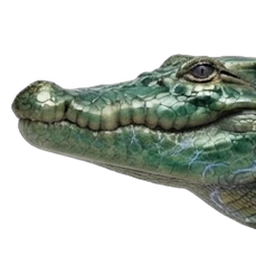
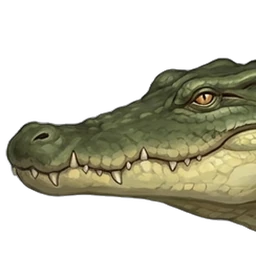
Jade-Scaled Crocodile: redesigned picture, roar picture, animated from its own videos with its own voice
Heavy olive-green crocodile with rows of raised polished jade armour plates and a stub tail, drawn
facing left (no longer mirrored; Nano Banana 2.1; sparkle removed, shrunk to leave room). Both
videos clean. Its bite takes its head-lowering as a wind-up (every 4th frame) and a few spaced
frames of its head rising again afterwards, so it settles into the idle with no double head
(still 3 s). Its face crop widened to take in its eye.

Claude-Session: https://claude.ai/code/session_018PQaDMV3orGvkBFWtr1kVD

diff --git a/scripts/make_beast_sheets.py b/scripts/make_beast_sheets.py
@@ -166,6 +166,17 @@ CLIPS = {
                          "tail_x_until": {"death": 5.85},
                          "ease_in": {"attack": 2, "hit": 3, "death": 4}, "settle": {"attack": 3},
                          "ease_out": {"hit": 3}, "place_as": {"attack": "idle", "hit": "idle", "death": "idle"}},
+    # Nov 27 redesign, an olive-green crocodile with rows of raised jade armour plates and a stub tail: both videos
+    # clean (no remakes; made from the uncleaned picture, its sparkle off the body on the backdrop). It drifts slowly
+    # through its video and starts lowering its head a second before it bites, so its idle is the calm second before
+    # that and the bite takes the head-lowering as its wind-up (every 4th frame). After the bite its head rested lower
+    # than the idle's (a double head where it dissolved back), and only rose again over the next 3 s: a few frames of that
+    # rise are taken (every 6th to 12th), so the bite ends in the idle's pose; its flinch and its belly-flop from the hit video
+    "jade_scaled_crocodile": {"attack": ((3.083, 3.133), (3.250, 3.300), (3.417, 3.467), (3.583, 3.633), (3.750, 3.800), (3.85, 6.5), (7.000, 7.050), (7.500, 7.550), (8.000, 8.050), (8.500, 8.550), (8.917, 8.967), (9.250, 9.300), (9.583, 9.633), (9.833, 9.883)),
+                              "hit": (2.1, 3.5), "death": (5.5, 6.7), "idle_span": (16, 26),
+                              "breathe": 0.03, "idle_from": 2.0, "idle_until": 3.1, "attack_ms": 3000,
+                              "ease_in": {"attack": 2, "hit": 3, "death": 4}, "settle": {"attack": 4},
+                              "ease_out": {"hit": 3}, "place_as": {"attack": "idle", "hit": "idle", "death": "idle"}},
     "old_black_bear": {"attack": (2.3, 5.1), "hit": (2.05, 3.45), "death": (3.9, 6.4), "idle_span": (30, 46),
                        "idle_from": 5.8, "attack_ms": 2600, "bite": 27, "impact": 10, "white": ("death",)},
                        # its attack from the remade video with headroom (Nov 26): the first one's head left the video

diff --git a/tests/test_web_explore.py b/tests/test_web_explore.py
@@ -1361,6 +1361,20 @@ def test_the_lightning_weasel_is_animated_from_its_own_videos_with_its_own_voice
     assert json.load(open(os.path.join("art", "beasts", "heads.json")))["lightning_weasel@roar"][:2] == [0.09, 0.23]
     assert explore_play.beast_body("Lightning Weasel") == "lightning_weasel"
 
+def test_the_jade_scaled_crocodile_is_animated_from_its_own_videos_with_its_own_voice():
+    """SHOAIB's redesigned Jade-Scaled Crocodile (Nov 27, Grandmaster Elite): an olive-green crocodile with raised jade armour plates and a stub tail; both videos clean, its bite ends in the idle's pose."""
+    import json
+    from web import beast_sheets, death, explore_play
+    d = beast_sheets.sheets("jade_scaled_crocodile")
+    assert d and set(d["sheets"]) == {"idle", "attack", "hit", "death"} and d["sheets"]["idle"]["smooth"]
+    assert death.view({"kind": "beast", "name": "Jade-Scaled Crocodile", "slug": "jade_scaled_crocodile"})["kind"] == "sheet"
+    assert os.path.exists(os.path.join("art", "beasts", "roar", "jade_scaled_crocodile.png"))
+    keys = json.load(open(os.path.join("art", "fx", "sounds", "sounds.json")))
+    for sound in ("hit", "lunge", "death", "roar", "roar:big"):
+        assert f"{sound}@jade_scaled_crocodile" in keys
+    assert json.load(open(os.path.join("art", "beasts", "heads.json")))["jade_scaled_crocodile@roar"][:2] == [0.12, 0.42]
+    assert explore_play.beast_body("Jade-Scaled Crocodile") == "jade_scaled_crocodile"
+
 def test_a_move_ending_in_another_pose_slides_and_dissolves_back_into_the_idle():
     """`make_beast_sheets.settle`: the last frames slide until the nose meets the idle's, then dissolve into it."""
     from PIL import Image

diff --git a/scripts/make_quadruped_art.py b/scripts/make_quadruped_art.py
@@ -53,7 +53,7 @@ INSECTS = ("venom_scorpion", "golden_silk_spider", "thousand_year_centipede")
 CROCODILES = ("jade_scaled_crocodile", "abyss_crocodile")
 # the tortoises (SHOAIB's redesign)
 TORTOISES = ("stone_shell_tortoise", "black_tortoise_xuanwu", "primordial_dragon_turtle")
-FACES_RIGHT = {"black_tortoise_xuanwu", "jade_scaled_crocodile", "abyss_crocodile", "thousand_year_centipede", "shanxiao_mountain_spirit", "flood_dragon_jiao", "black_water_serpent", "bifang_fire_crane", "vermilion_bird", "nine_tailed_fox", "thunder_rhino", "fire_hoof_steed", "ancient_golden_ape",
+FACES_RIGHT = {"black_tortoise_xuanwu", "abyss_crocodile", "thousand_year_centipede", "shanxiao_mountain_spirit", "flood_dragon_jiao", "black_water_serpent", "bifang_fire_crane", "vermilion_bird", "nine_tailed_fox", "thunder_rhino", "fire_hoof_steed", "ancient_golden_ape",
                "earth_splitting_rhino", "shadow_panther", "cloud_leopard"}
 # drawn on a slab: the slab's top edge, as a share of the picture's height (read off each design by eye)
 SLAB = {"grey_wolf": 0.80, "cloud_leopard": 0.73,

diff --git a/scripts/make_roar_fx.py b/scripts/make_roar_fx.py
@@ -63,7 +63,7 @@ MOUTHS = {
     "iron_feather_crow": (0.06, 0.15),
     "iron_hide_boar": (0.08, 0.63),
     "ironbark_bear": (0.03, 0.18),
-    "jade_scaled_crocodile": (0.05, 0.3),
+    "jade_scaled_crocodile": (0.03, 0.52),
     "kun_peng_fish_of_the_northern_sea": (0.02, 0.45),
     "lightning_weasel": (0.03, 0.22),
     "mountain_tiger": (0.04, 0.5),
@@ -137,7 +137,7 @@ ROAR_MOUTHS = {
     "iron_feather_crow": (0.23, 0.36),
     "iron_hide_boar": (0.11, 0.59),
     "ironbark_bear": (0.07, 0.25),
-    "jade_scaled_crocodile": (0.13, 0.38),
+    "jade_scaled_crocodile": (0.12, 0.42),
     "kun_peng_fish_of_the_northern_sea": (0.27, 0.48),
     "lightning_weasel": (0.09, 0.23),
     "mountain_tiger": (0.1, 0.45),

diff --git a/scripts/make_beast_faces.py b/scripts/make_beast_faces.py
@@ -22,7 +22,7 @@ SIZE = 256
 FIX = {
     "abyss_crocodile": (0.35, 0, 1.6), "armored_boar_chief": (-0.08, 0.05, 1.3), "bifang_fire_crane": (-0.05, 0.05, 0.7),
     "crimson_fire_hawk": (0.12, 0.08, 0.9), "iron_hide_boar": (0, 0.05, 1.4),
-    "jade_scaled_crocodile": (0.05, 0, 1.5), "kun_peng_fish_of_the_northern_sea": (0.13, 0.25, 1.05),
+    "jade_scaled_crocodile": (0.3, -0.18, 1.7), "kun_peng_fish_of_the_northern_sea": (0.13, 0.25, 1.05),
     "spear_beak_crane": (0.3, 0, 0.7), "taotie_the_devourer": (-0.1, 0.35, 1.2),
     "tiangou_the_heavenly_hound": (-0.15, -0.1, 1.3), "wild_ox": (-0.1, 0, 1.3), "the_master": (0.2, 0.05, 1.0),
 }

diff --git a/art/beasts/README.md b/art/beasts/README.md
@@ -60,5 +60,5 @@ dark-green scorpion with its tail curled over its back; its videos kept the pict
 sparkle, so both are dropped, and its strike is taken without the green slash arc the video drew. The **Poison Toad** (Martial Expert) is a huge warty
 olive toad with bright toxic-green spots, its jolt's white impact lines wiped from its video. The **Silver Monkey** (Martial Expert) is an agile
 silver-furred monkey with a short curled tail; its attack video was remade (the first leapt off and turned round), and
-the tail Veo grew long in its hit and death video is cut back to a short stub. The **Steel-Horn Bull** (Elite) is a huge dark-brown bull with thick steel horns and an iron nose ring, drawn facing left (no longer mirrored; Nano Banana 2.1); both its videos were clean. The **Golden-Eyed Ape King**, the Martial Expert Beast King, is a colossal charcoal-and-rust great ape with a gold zigzag streak down its back and no tail; its picture was mirrored to face left before its videos (Nano Banana 2.1), and the few frames with dust at its fist slam are dropped. The **Ironbark Bear** (Martial Master) is a tawny bear armoured in red-brown ironwood bark with moss and jade-green stones, drawn facing left (no longer mirrored; Nano Banana 2.1); its swipe video was made from the uncleaned picture, so the sparkle Veo kept on its rump is cut away. The **Frost Wolf** (Martial Master) is a stocky pale silver-blue tundra wolf with a huge icy-tipped mane, a blue diamond on its brow and a short tucked tail (Nano Banana 2.1); it is pale, so its video effects are left out by choosing frames, never wiped: its bite stops just before the ice shards the video drew. The **Thunder Hawk** (Elite) is a bulky slate blue-grey hawk with a gold-tipped crest and gold zigzag stripes on its wings; it now stands and fights on its feet with its wings folded (no longer diving; no stone underfoot; Nano Banana 2.1). Its first attack and hit spread its wings off the video, so they come from one remade video; its fall from the first. The **Ember Lizard** (Martial Master) is a lean, long-legged runner, glossy black with coal-orange bands and a flame-orange neck frill (Nano Banana 2.1; the small flame wisp Gemini drew over its head painted out). Veo grew its short tail long in every video, so each move is taken before the tail grows. The **Frost Python** (Elite) is a navy-blue python with ice-white diamonds and a frosted spine ridge, coiled low (Nano Banana 2.1; Gemini's sparkle painted onto its coil was un-blended before its videos); both its videos were clean. The **Wind Leopard** (Elite) is a slim, long-legged sand-gold leopard with swirl-shaped spots and black-tufted ears, drawn facing left (no longer mirrored; Nano Banana 2.1); Veo grew its short tail long whenever it moved, so the tail is cut back where it reaches past its back feet. The **Flame-Maned Lion**, the Martial Master Beast King, is a golden lion with a huge crimson-to-gold mane (just colour, not fire) and no tail showing, drawn facing left (no longer mirrored; Nano Banana 2.1; its long thin tail and the "AI" badge painted out of its picture); the tufted tail Veo grew is cut back in every move. The **Stone-Shell Tortoise** (Grandmaster) is an ox-sized tortoise with a slate stone shell, ochre seams, moss and three stone knobs (Nano Banana 2.1); both its videos were clean. The **Bone Vulture** (Grandmaster) is a hunched charcoal-purple vulture with a bare bone-white head, an ivory beak and bone-white wing edges, standing with its wings folded (Nano Banana 2.1); both its videos were clean, and its pale head is its own, so nothing is wiped. The **Storm Eagle** (Elite) is a tall indigo-black eagle with a rain-streaked storm-grey head, silver wing bands and a ruff of pointed neck feathers, standing with its wings folded (Nano Banana 2.1; a gold streak behind its eye painted out); both its videos were clean. The **Lightning Weasel** (Grandmaster) is a lean dark chocolate-brown weasel with a cream-white throat and belly, a gold lightning-bolt stripe along its side (just colour) and a stub tail (Nano Banana 2.1); both its videos were clean, and the long bushy tail Veo grew as it fell is cut back to a stub. The beasts are
+the tail Veo grew long in its hit and death video is cut back to a short stub. The **Steel-Horn Bull** (Elite) is a huge dark-brown bull with thick steel horns and an iron nose ring, drawn facing left (no longer mirrored; Nano Banana 2.1); both its videos were clean. The **Golden-Eyed Ape King**, the Martial Expert Beast King, is a colossal charcoal-and-rust great ape with a gold zigzag streak down its back and no tail; its picture was mirrored to face left before its videos (Nano Banana 2.1), and the few frames with dust at its fist slam are dropped. The **Ironbark Bear** (Martial Master) is a tawny bear armoured in red-brown ironwood bark with moss and jade-green stones, drawn facing left (no longer mirrored; Nano Banana 2.1); its swipe video was made from the uncleaned picture, so the sparkle Veo kept on its rump is cut away. The **Frost Wolf** (Martial Master) is a stocky pale silver-blue tundra wolf with a huge icy-tipped mane, a blue diamond on its brow and a short tucked tail (Nano Banana 2.1); it is pale, so its video effects are left out by choosing frames, never wiped: its bite stops just before the ice shards the video drew. The **Thunder Hawk** (Elite) is a bulky slate blue-grey hawk with a gold-tipped crest and gold zigzag stripes on its wings; it now stands and fights on its feet with its wings folded (no longer diving; no stone underfoot; Nano Banana 2.1). Its first attack and hit spread its wings off the video, so they come from one remade video; its fall from the first. The **Ember Lizard** (Martial Master) is a lean, long-legged runner, glossy black with coal-orange bands and a flame-orange neck frill (Nano Banana 2.1; the small flame wisp Gemini drew over its head painted out). Veo grew its short tail long in every video, so each move is taken before the tail grows. The **Frost Python** (Elite) is a navy-blue python with ice-white diamonds and a frosted spine ridge, coiled low (Nano Banana 2.1; Gemini's sparkle painted onto its coil was un-blended before its videos); both its videos were clean. The **Wind Leopard** (Elite) is a slim, long-legged sand-gold leopard with swirl-shaped spots and black-tufted ears, drawn facing left (no longer mirrored; Nano Banana 2.1); Veo grew its short tail long whenever it moved, so the tail is cut back where it reaches past its back feet. The **Flame-Maned Lion**, the Martial Master Beast King, is a golden lion with a huge crimson-to-gold mane (just colour, not fire) and no tail showing, drawn facing left (no longer mirrored; Nano Banana 2.1; its long thin tail and the "AI" badge painted out of its picture); the tufted tail Veo grew is cut back in every move. The **Stone-Shell Tortoise** (Grandmaster) is an ox-sized tortoise with a slate stone shell, ochre seams, moss and three stone knobs (Nano Banana 2.1); both its videos were clean. The **Bone Vulture** (Grandmaster) is a hunched charcoal-purple vulture with a bare bone-white head, an ivory beak and bone-white wing edges, standing with its wings folded (Nano Banana 2.1); both its videos were clean, and its pale head is its own, so nothing is wiped. The **Storm Eagle** (Elite) is a tall indigo-black eagle with a rain-streaked storm-grey head, silver wing bands and a ruff of pointed neck feathers, standing with its wings folded (Nano Banana 2.1; a gold streak behind its eye painted out); both its videos were clean. The **Lightning Weasel** (Grandmaster) is a lean dark chocolate-brown weasel with a cream-white throat and belly, a gold lightning-bolt stripe along its side (just colour) and a stub tail (Nano Banana 2.1); both its videos were clean, and the long bushy tail Veo grew as it fell is cut back to a stub. The **Jade-Scaled Crocodile** (Elite) is a heavy olive-green crocodile with rows of raised polished jade armour plates down its back and a stub tail, drawn facing left (no longer mirrored; Nano Banana 2.1); both its videos were clean, and its bite takes in a few frames of its head rising again afterwards so it ends in its standing pose. The beasts are
 being redone one at a time in roster order the same way.

diff --git a/docs/web.md b/docs/web.md
@@ -585,6 +585,7 @@ What is recorded now (23 names, 22 files, about 220 KB, all from SHOAIB's videos
 | The Bone Vulture's croaking stab, its screech when struck, its dying croak and slump, its croak and big croak (`@bone_vulture`) | its own idle + attack and hit + death videos (Nov 27) |
 | The Storm Eagle's screeching beak stab, its cry when struck, its dying cry and fall, its screech and big screech (`@storm_eagle`) | its own idle + attack and hit + death videos (Nov 27) |
 | The Lightning Weasel's hissing snap, its squeal when struck, its dying squeak and thud, its hiss and big hiss (`@lightning_weasel`) | its own idle + attack and hit + death videos (Nov 27) |
+| The Jade-Scaled Crocodile's roaring bite, its grunt when struck, its slam onto its belly, its roar and big roar (`@jade_scaled_crocodile`) | its own idle + attack and hit + death videos (Nov 27) |
 | A roar, and a big roar, for wolf-, cat- and ape-bodied beasts | the quadruped roar video |
 
 **His own sounds (Nov 24).** The new male's videos carry sound too, and his moves play it: his Strike's swing, his
@@ -1181,7 +1182,7 @@ its beasts in `DEATH_CATEGORY`. To give another four-legged beast the movement, 
 ## Animated beasts
 
 A beast can be animated from its videos (SHOAIB's, Gemini or Flow: idle, attack, hit, death; so far the **Grey Wolf**
-and the redesigned **Wild Boar**, **Field Viper**, **Stray Dog Pack**, **Wild Ox**, **Old Black Bear**, **Iron-Hide Boar**, **Red Fox**, the first bird, the **Wind-Feather Falcon**, the **Shadow Wolf**, the **Horned Stag**, the **Mountain Tiger**, the **Rock Python**, the **Spear-Beak Crane**, the **Thornback Lizard**, the **Bloodfang Wolf**, the **Armored Boar Chief**, the **White-Browed Tiger King**, the **Venom Scorpion**, the **Poison Toad**, the **Silver Monkey**, the **Steel-Horn Bull**, the **Golden-Eyed Ape King**, the **Ironbark Bear**, the **Frost Wolf**, the **Thunder Hawk**, the **Ember Lizard**, the **Frost Python**, the **Wind Leopard**, the **Flame-Maned Lion**, the **Stone-Shell Tortoise**, the **Bone Vulture**, the **Storm Eagle** and the **Lightning Weasel**). One video can hold two of them: the Wild Boar's idle comes from one video, its hit
+and the redesigned **Wild Boar**, **Field Viper**, **Stray Dog Pack**, **Wild Ox**, **Old Black Bear**, **Iron-Hide Boar**, **Red Fox**, the first bird, the **Wind-Feather Falcon**, the **Shadow Wolf**, the **Horned Stag**, the **Mountain Tiger**, the **Rock Python**, the **Spear-Beak Crane**, the **Thornback Lizard**, the **Bloodfang Wolf**, the **Armored Boar Chief**, the **White-Browed Tiger King**, the **Venom Scorpion**, the **Poison Toad**, the **Silver Monkey**, the **Steel-Horn Bull**, the **Golden-Eyed Ape King**, the **Ironbark Bear**, the **Frost Wolf**, the **Thunder Hawk**, the **Ember Lizard**, the **Frost Python**, the **Wind Leopard**, the **Flame-Maned Lion**, the **Stone-Shell Tortoise**, the **Bone Vulture**, the **Storm Eagle**, the **Lightning Weasel** and the **Jade-Scaled Crocodile**). One video can hold two of them: the Wild Boar's idle comes from one video, its hit
 and attack from a second, its death from a third (`CLIPS` gives the seconds of each).
 **The move panel never changes height** (fight.js `holdInfo`): it is held at the height of its tallest text (every
 move's and technique's, tried once when the page comes in, and again when the window changes size). Guard's and
@@ -1250,6 +1251,11 @@ belly ease in from it.
 **The Lightning Weasel** (Nov 27): both videos clean; its idle is the calm breath before its snap, and its fall starts
 at 5.0 s, not earlier, so it does not stand still too long first. Veo grew its stub tail long and bushy as it fell: cut
 back where it reaches past its back feet while it is up, and by thinness once it lies on its side.
+**The Jade-Scaled Crocodile** (Nov 27): it drifts slowly through its video and lowers its head a second before it bites,
+so its idle is the calm second before that (2.0-3.1 s) and the bite takes the head-lowering (every 4th frame) as its
+wind-up. After the bite its head rested lower than the idle's (a double head where it dissolved back) and only rose again
+over the next 3 s, so a few spaced frames of that rise end the bite (spans of one frame each), and it settles into the
+idle with no double head; it still plays in 3 s.
 **The idle never jumps** (`smooth_idle`; SHOAIB: "it keeps resetting"): its last frame never quite met its first, so
 a short idle plays forward then back, breathing in and out, and a long one (24+ frames) dissolves its last 6 frames
 into its first; and it keeps its place in time when the page is replaced each turn (fight.js sets its

diff --git a/art/beasts/PROMPTS.md b/art/beasts/PROMPTS.md
@@ -226,9 +226,9 @@ File: `art/beasts/storm_eagle.png` (Nov 27 redesign, Nano Banana 2.1, standing w
 > A Storm Eagle for a Chinese xianxia martial arts game, an Elite beast: a huge, tall, upright eagle, far bigger than any real eagle, with a long powerful neck, broad shoulders and long legs. Deep indigo-black feathers on its body and folded wings, a pale storm-grey head and neck streaked with thin dark-grey lines like falling rain (just colour), and a wide pale silver-white band across the top of each folded wing like the bright edge of a storm cloud (just colour on the feathers). Its signature: a short, thick ruff of stiff pointed hackle feathers on the back of its neck, storm-grey with dark tips, lying flat and solid against its neck. A heavy, sharply hooked golden-yellow beak, legs feathered in indigo-black down to its big yellow feet with long black talons, and fierce pale-gold eyes with a faint electric-gold glow of thunder Qi (only the eyes glow). A SHORT, square tail held low, close to the body. All of its feathers are solid: nothing coming off it, no lightning, no sparks, no loose feathers. Proud and commanding, a natural bird, not a monster. Strict side view, facing LEFT, STANDING upright on the ground on both legs (not flying), wings FOLDED neatly against its body, chest out, neck raised and head held high and level, pointing left, beak closed, both legs clearly visible and separated. The whole eagle takes up about 60-65% of the picture's height, placed a little right of centre, with clear empty grey space above it (about a quarter of the picture's height) and on the left, and its feet a little above the bottom edge. Realistic digital painting, premium Chinese xianxia MMORPG creature concept art, detailed feathers, beak and talons, soft natural rim lighting, painterly brushwork, rich but mature colours. Plain flat even medium-grey background, the same grey from top to bottom, no gradient, no vignette, no light outline around the body, no ground, no shadow, no aura, no text, no watermark. 16:9.
 
 **Jade-Scaled Crocodile** · Elite · Jade
-File: `art/beasts/jade_scaled_crocodile.png`
+File: `art/beasts/jade_scaled_crocodile.png` (Nov 27 redesign, Nano Banana 2.1, drawn facing left (no longer mirrored; its sparkle removed and shrunk to leave room); animated from its idle + attack and hit + death videos)
 
-> A massive crocodile with jade-green armoured scales, half in water, jaws open, with a subtle jade green elemental aura. It is an elite: larger and more battle-scarred than its kind. Digital painting, premium Chinese xianxia MMORPG creature concept art. Realistic anatomy, detailed scales, horns and claws, dramatic natural rim lighting, painterly brushwork, rich but mature colours. Full body, three-quarter view facing left, dynamic pose. Isolated on a plain transparent background, no ground, no text, no frame, no watermark.
+> A massive, heavy crocodile, deep olive-green body with two rows of thick, raised, polished jade-green armour plates running down its back from neck to tail, pale yellow-cream belly and throat, a long broad snout with its mouth CLOSED (a few teeth just visible along the jaw), heavy brow ridges over calm amber eyes. The jade plates are just colour and shape, solid and part of its body: no glow. It stands up on all four short, thick legs in a low walk pose, belly just off the ground, all four legs clearly visible, solid and separated, with heavy clawed feet. Its tail is VERY SHORT: only a short, thick stub held low, close to the body, ending just behind its back legs. It does NOT have a long tail. Strict side view facing LEFT: its head on the LEFT side of the picture. The crocodile fills about 65% of the picture's width, a little right of centre, with clear empty grey space on ALL four sides (about a quarter of the height above it). Plain flat even medium-grey background: the same grey from top to bottom, no gradient, no vignette, no light outline around the body. No ground, no water, no shadow, no aura, no sparkles, no text. All of its scales are solid: nothing coming off it. Only its eyes may glow faintly, no marks around the eyes. No blood, scars or wounds. Digital painting, premium Chinese xianxia game creature art, realistic anatomy, detailed scales, rich mature colours. 16:9.
 
 **Black Water Serpent** · Beast King · Shadow
 File: `art/beasts/black_water_serpent.png`
